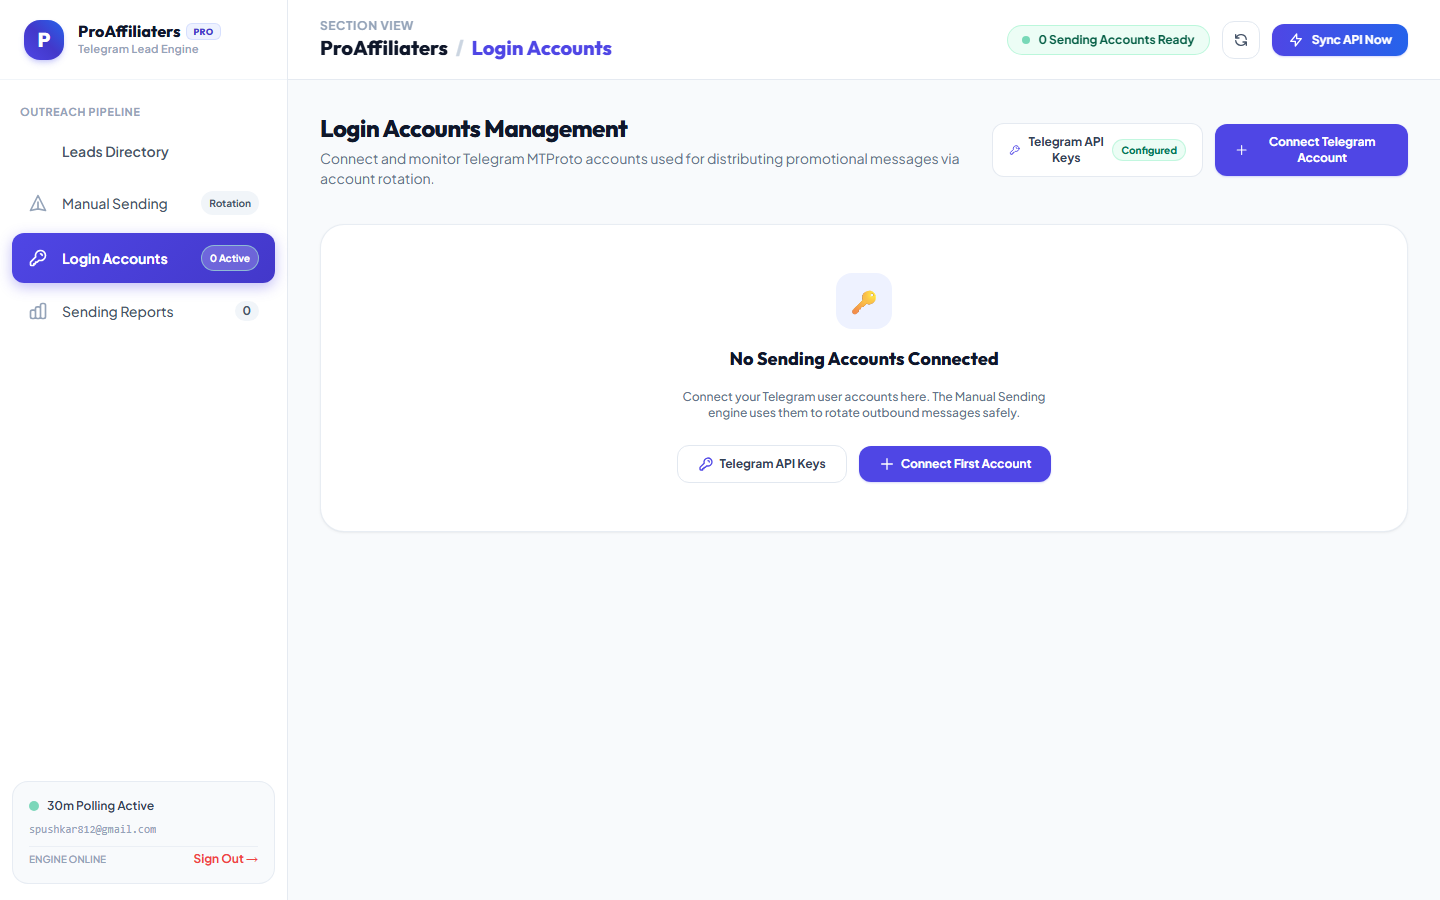
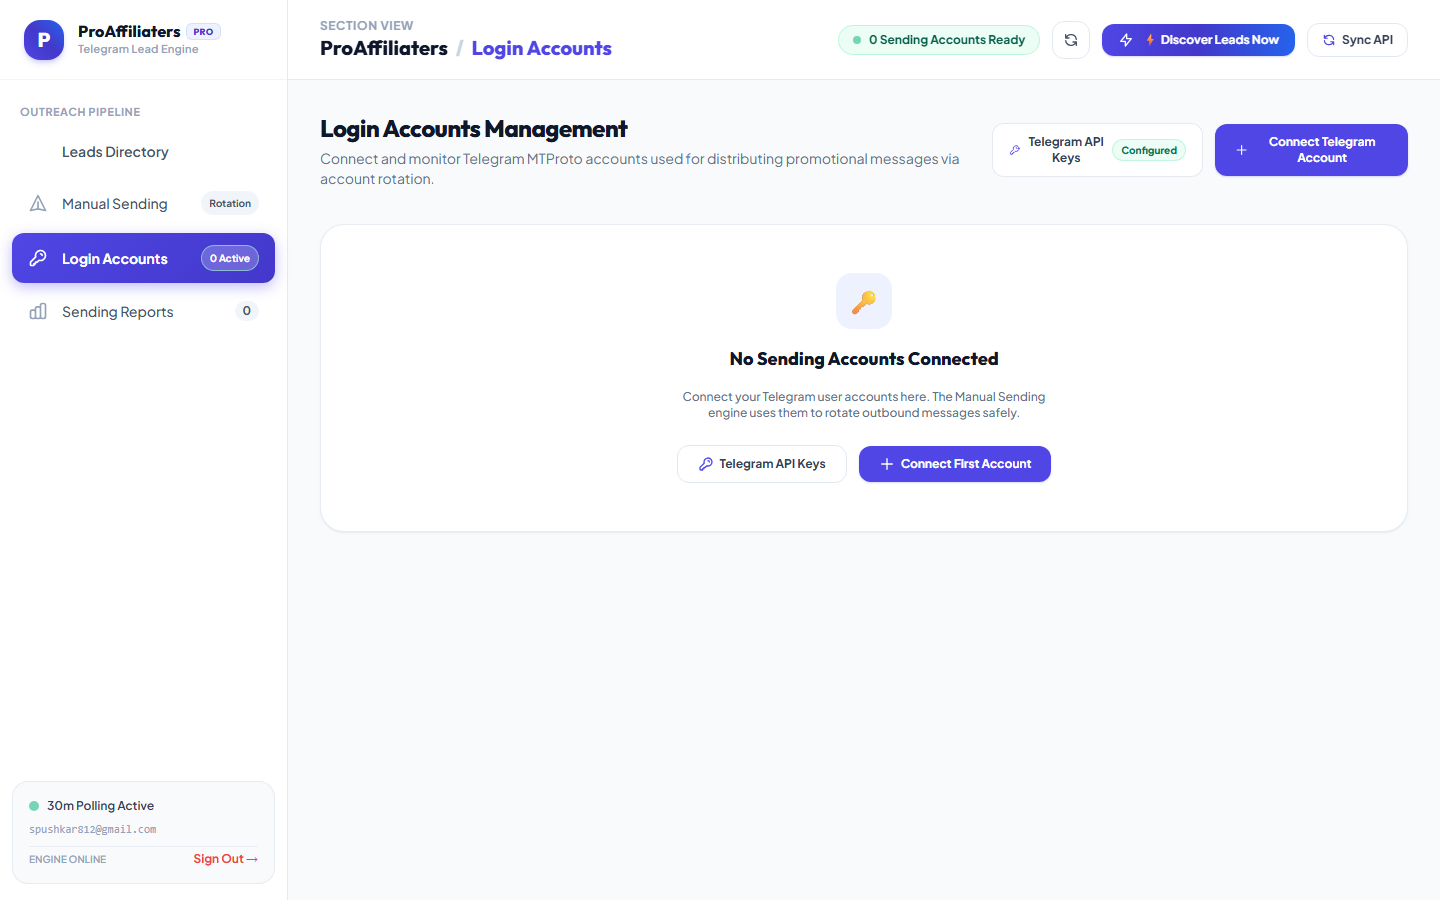
feat: link discovery to connected accounts, add Discover Leads Now button and endpoint

Changed region(s): [[0.5938, 0.0, 1.0, 0.0622]]

diff --git a/src/web.py b/src/web.py
@@ -420,6 +420,12 @@ async def complete_account_login_endpoint(req: CompleteAccountLoginRequest):
         if res.get("status") == "success":
             acc = res.get("account", {})
             log_activity(f"Connected Telegram account {acc.get('phone')} (Ready for Rotation)", "sync")
+            # Automatically launch background discovery cycle now that an account is ready
+            try:
+                from src.keyword_search_engine import KeywordSearchEngine
+                asyncio.create_task(KeywordSearchEngine.run_autonomous_cycle(max_keywords=2))
+            except Exception as ex:
+                logger.warning("Could not launch discovery cycle on account connect: %s", ex)
         return res
     except Exception as e:
         logger.error("Failed to complete phone login: %s", e)
@@ -565,15 +571,43 @@ async def export_sending_reports_csv(status: Optional[str] = Query(None)):
     )
 
 # 7. Utilities & Manual Trigger
+@app.post("/api/discovery/trigger-now")
+async def trigger_discovery_now_endpoint():
+    """Triggers an immediate autonomous keyword search cycle across active keywords."""
+    log_activity("Autonomous lead discovery cycle initiated by admin from Web UI.", "sync")
+    from src.keyword_search_engine import KeywordSearchEngine
+    try:
+        res = await KeywordSearchEngine.run_autonomous_cycle(max_keywords=3)
+        channels = res.get("channels_found", 0)
+        leads = res.get("leads_extracted", 0)
+        msg = f"Discovered {channels} channels and extracted {leads} leads."
+        log_activity(f"Discovery cycle finished: {msg}", "lead")
+        return {
+            "status": "success",
+            "message": msg,
+            "channels_found": channels,
+            "leads_extracted": leads
+        }
+    except Exception as e:
+        logger.error("Error executing manual discovery cycle: %s", e)
+        return JSONResponse(status_code=400, content={"status": "error", "message": str(e)})
+
 @app.post("/api/trigger-sync")
 async def trigger_manual_sync():
-    """Triggers an immediate external source fetch from ProAffiliaters API."""
-    log_activity("Manual 30-minute sync cycle initiated by admin from Web UI.", "sync")
+    """Triggers both external API polling and autonomous keyword discovery."""
+    log_activity("Full sync & discovery cycle initiated by admin from Web UI.", "sync")
+    from src.keyword_search_engine import KeywordSearchEngine
+    asyncio.create_task(KeywordSearchEngine.run_autonomous_cycle(max_keywords=3))
+
     api_client = ProaffiliatersApiClient()
     sources = await api_client.fetch_recent_sources()
     if not sources:
-        log_activity("External API sync finished: No new source channels found.", "info")
-        return {"status": "none", "message": "No new sources found in window", "sources_count": 0}
+        log_activity("External API sync finished: No new external sources in window. Autonomous discovery running in background...", "info")
+        return {
+            "status": "success",
+            "message": "Autonomous lead discovery cycle running in background!",
+            "sources_count": 0
+        }
 
     log_activity(f"External API sync found {len(sources)} source channels. Processing...", "lead")
     return {"status": "success", "message": f"Discovered {len(sources)} channels", "sources_count": len(sources)}
@@ -1209,10 +1243,16 @@ HTML_CONTENT = """<!DOCTYPE html>
             <svg class="w-4 h-4" fill="none" stroke="currentColor" viewBox="0 0 24 24"><path stroke-linecap="round" stroke-linejoin="round" stroke-width="2" d="M4 4v5h.582m15.356 2A8.001 8.001 0 004.582 9m0 0H9m11 11v-5h-.581m0 0a8.003 8.003 0 01-15.357-2m15.357 2H15"></path></svg>
           </button>
 
-          <!-- Sync API Now Button -->
-          <button onclick="triggerSyncNow()" class="flex items-center gap-2 px-4 py-2 rounded-xl bg-gradient-to-r from-indigo-600 to-blue-600 hover:from-indigo-700 hover:to-blue-700 text-white text-xs font-bold shadow-sm shadow-indigo-500/25 transition-all active:scale-95">
+          <!-- Discover Leads Now Button -->
+          <button id="btn-trigger-discovery" onclick="triggerDiscoveryNow()" class="flex items-center gap-2 px-4 py-2 rounded-xl bg-gradient-to-r from-indigo-600 via-indigo-700 to-blue-600 hover:from-indigo-700 hover:to-blue-700 text-white text-xs font-bold shadow-sm shadow-indigo-500/25 transition-all active:scale-95">
             <svg class="w-4 h-4" fill="none" stroke="currentColor" viewBox="0 0 24 24"><path stroke-linecap="round" stroke-linejoin="round" stroke-width="2" d="M13 10V3L4 14h7v7l9-11h-7z"></path></svg>
-            <span>Sync API Now</span>
+            <span>⚡ Discover Leads Now</span>
+          </button>
+
+          <!-- Sync API Now Button -->
+          <button onclick="triggerSyncNow()" title="Poll External ProAffiliaters API" class="flex items-center gap-1.5 px-3.5 py-2 rounded-xl border border-slate-200 bg-white hover:bg-slate-50 text-slate-700 text-xs font-bold shadow-2xs transition-all active:scale-95">
+            <svg class="w-3.5 h-3.5 text-indigo-600" fill="none" stroke="currentColor" viewBox="0 0 24 24"><path stroke-linecap="round" stroke-linejoin="round" stroke-width="2" d="M4 4v5h.582m15.356 2A8.001 8.001 0 004.582 9m0 0H9m11 11v-5h-.581m0 0a8.003 8.003 0 01-15.357-2m15.357 2H15"></path></svg>
+            <span>Sync API</span>
           </button>
         </div>
       </header>
@@ -2925,6 +2965,37 @@ HTML_CONTENT = """<!DOCTYPE html>
 
       } catch (e) {
         console.error('Error loading global stats', e);
+      }
+    }
+
+    async function triggerDiscoveryNow() {
+      const btn = document.getElementById('btn-trigger-discovery');
+      if (btn) {
+        btn.disabled = true;
+        btn.innerHTML = '<span>⏳ Scanning Channels...</span>';
+      }
+      showToast('Searching Telegram directory for deal channels & extracting leads...', 'info');
+
+      try {
+        const res = await fetch('/api/discovery/trigger-now', { method: 'POST' });
+        const data = await res.json();
+        if (res.ok && data.status === 'success') {
+          showToast(`Discovery complete! Found ${data.channels_found} channels and saved ${data.leads_extracted} leads!`, 'success');
+          await loadLeads();
+          await loadStats();
+        } else {
+          showToast(data.message || 'Discovery cycle failed. Ensure an account is connected.', 'error');
+        }
+      } catch (e) {
+        showToast('Error during discovery: ' + e.message, 'error');
+      } finally {
+        if (btn) {
+          btn.disabled = false;
+          btn.innerHTML = `
+            <svg class="w-4 h-4" fill="none" stroke="currentColor" viewBox="0 0 24 24"><path stroke-linecap="round" stroke-linejoin="round" stroke-width="2" d="M13 10V3L4 14h7v7l9-11h-7z"></path></svg>
+            <span>⚡ Discover Leads Now</span>
+          `;
+        }
       }
     }
 

diff --git a/src/scanner.py b/src/scanner.py
@@ -60,8 +60,16 @@ class TelegramBioScanner:
         """
         Inspects a source channel's bio/description using Telegram MTProto and extracts leads.
         """
-        if not self.client or not self.client.is_connected():
-            logger.warning("[Scanner] Client not connected. Cannot scan source: %s", source.name)
+        client = self.client
+        disconnect_custom = False
+
+        if not client or not client.is_connected():
+            from src.keyword_search_engine import KeywordSearchEngine
+            client = await KeywordSearchEngine.get_authorized_client()
+            disconnect_custom = True
+
+        if not client:
+            logger.warning("[Scanner] No authorized Telegram account available to scan source: %s", source.name)
             return []
 
         invite_link = source.inviteLink or ""
@@ -74,13 +82,13 @@ class TelegramBioScanner:
                 invite_hash = hash_match.group(1)
                 logger.info("[Scanner] Inspecting private invite link hash '%s' for '%s'...", invite_hash, source.name)
                 try:
-                    invite_info = await self.client(functions.messages.CheckChatInviteRequest(invite_hash))
+                    invite_info = await client(functions.messages.CheckChatInviteRequest(invite_hash))
                     if isinstance(invite_info, types.ChatInvite):
                         bio_text = getattr(invite_info, "about", "") or ""
                     elif isinstance(invite_info, types.ChatInviteAlready):
                         # Already joined, fetch full entity
                         entity = invite_info.chat
-                        full = await self.client(functions.channels.GetFullChannelRequest(entity))
+                        full = await client(functions.channels.GetFullChannelRequest(entity))
                         bio_text = full.full_chat.about or ""
                 except (InviteHashExpiredError, InviteHashInvalidError) as e:
                     logger.warning("[Scanner] Invalid or expired invite link for '%s': %s", source.name, e)
@@ -92,8 +100,8 @@ class TelegramBioScanner:
                 target = user_match.group(1) if user_match else (source.chatId or "")
                 if target:
                     logger.info("[Scanner] Resolving public entity '%s' for '%s'...", target, source.name)
-                    entity = await self.client.get_entity(target)
-                    full = await self.client(functions.channels.GetFullChannelRequest(entity))
+                    entity = await client.get_entity(target)
+                    full = await client(functions.channels.GetFullChannelRequest(entity))
                     bio_text = full.full_chat.about or ""
 
             if not bio_text:
@@ -123,3 +131,6 @@ class TelegramBioScanner:
         except Exception as e:
             logger.exception("[Scanner] Error scanning channel '%s': %s", source.name, e)
             return []
+        finally:
+            if disconnect_custom and client and client.is_connected():
+                await client.disconnect()

diff --git a/implementation.md b/implementation.md
@@ -217,6 +217,7 @@
 | **2026-11-01 20:55 IST** | Antigravity AI | Enhanced Nginx & SSL Automation in `deploy.sh`: Fixed Certbot server_name error by ensuring config files use the `.conf` extension (`telegramtools.proaffiliaters.com.conf`) and automatically configuring the complete HTTPS SSL reverse proxy block whenever existing Let's Encrypt certificates are detected in `/etc/letsencrypt/live/`. | `deploy.sh`, `implementation.md` |
 | **2026-11-01 21:05 IST** | Antigravity AI | Verified Autonomous Keyword Discovery System Live: Confirmed background auto-discovery cycle discovered 17 channels and extracted 10 new leads into MongoDB (database now holds 26 total leads: 12 Userbots, 14 Usernames across 44 discovered channels). Added `testing_files/check_db_status.py`. | `testing_files/check_db_status.py`, `implementation.md` |
 | **2026-11-03 08:28 IST** | Antigravity AI | Added Telegram API Keys UI & Endpoints: Added `Telegram API Keys` button in the Login Accounts header with a dynamic live configuration status badge (`Configured` / `Not Configured`). Added interactive `modal-api-config` modal with guidance to `my.telegram.org`, input fields for API ID & Hash, and automatic `.env` persistence. Added `GET` & `POST /api/config/telegram` endpoints in `src/web.py` with `TelegramApiConfigRequest` schema. Added pre-login validation warning if keys are missing. Tested with automated API tests and Playwright UI tests with 0 console errors. | `src/web.py`, `testing_files/test_four_sections_api.py`, `testing_files/verify_sidebar_ui.py`, `verification_4_sections_ui.png`, `implementation.md` |
+| **2026-11-03 11:50 IST** | Antigravity AI | Connected Autonomous Lead Discovery to Connected Accounts & Manual Trigger: Updated `src/scanner.py` (`TelegramBioScanner`) to dynamically use connected accounts from MongoDB. Configured `complete_account_login_endpoint` to automatically launch an autonomous discovery cycle the instant an account connects. Added `POST /api/discovery/trigger-now` endpoint and topbar `⚡ Discover Leads Now` button enabling 1-click on-demand search and extraction. Updated `POST /api/trigger-sync` to also execute keyword discovery. Verified with API and Playwright tests. | `src/scanner.py`, `src/web.py`, `testing_files/verify_sidebar_ui.py`, `verification_4_sections_ui.png`, `implementation.md` |
 
 
 
